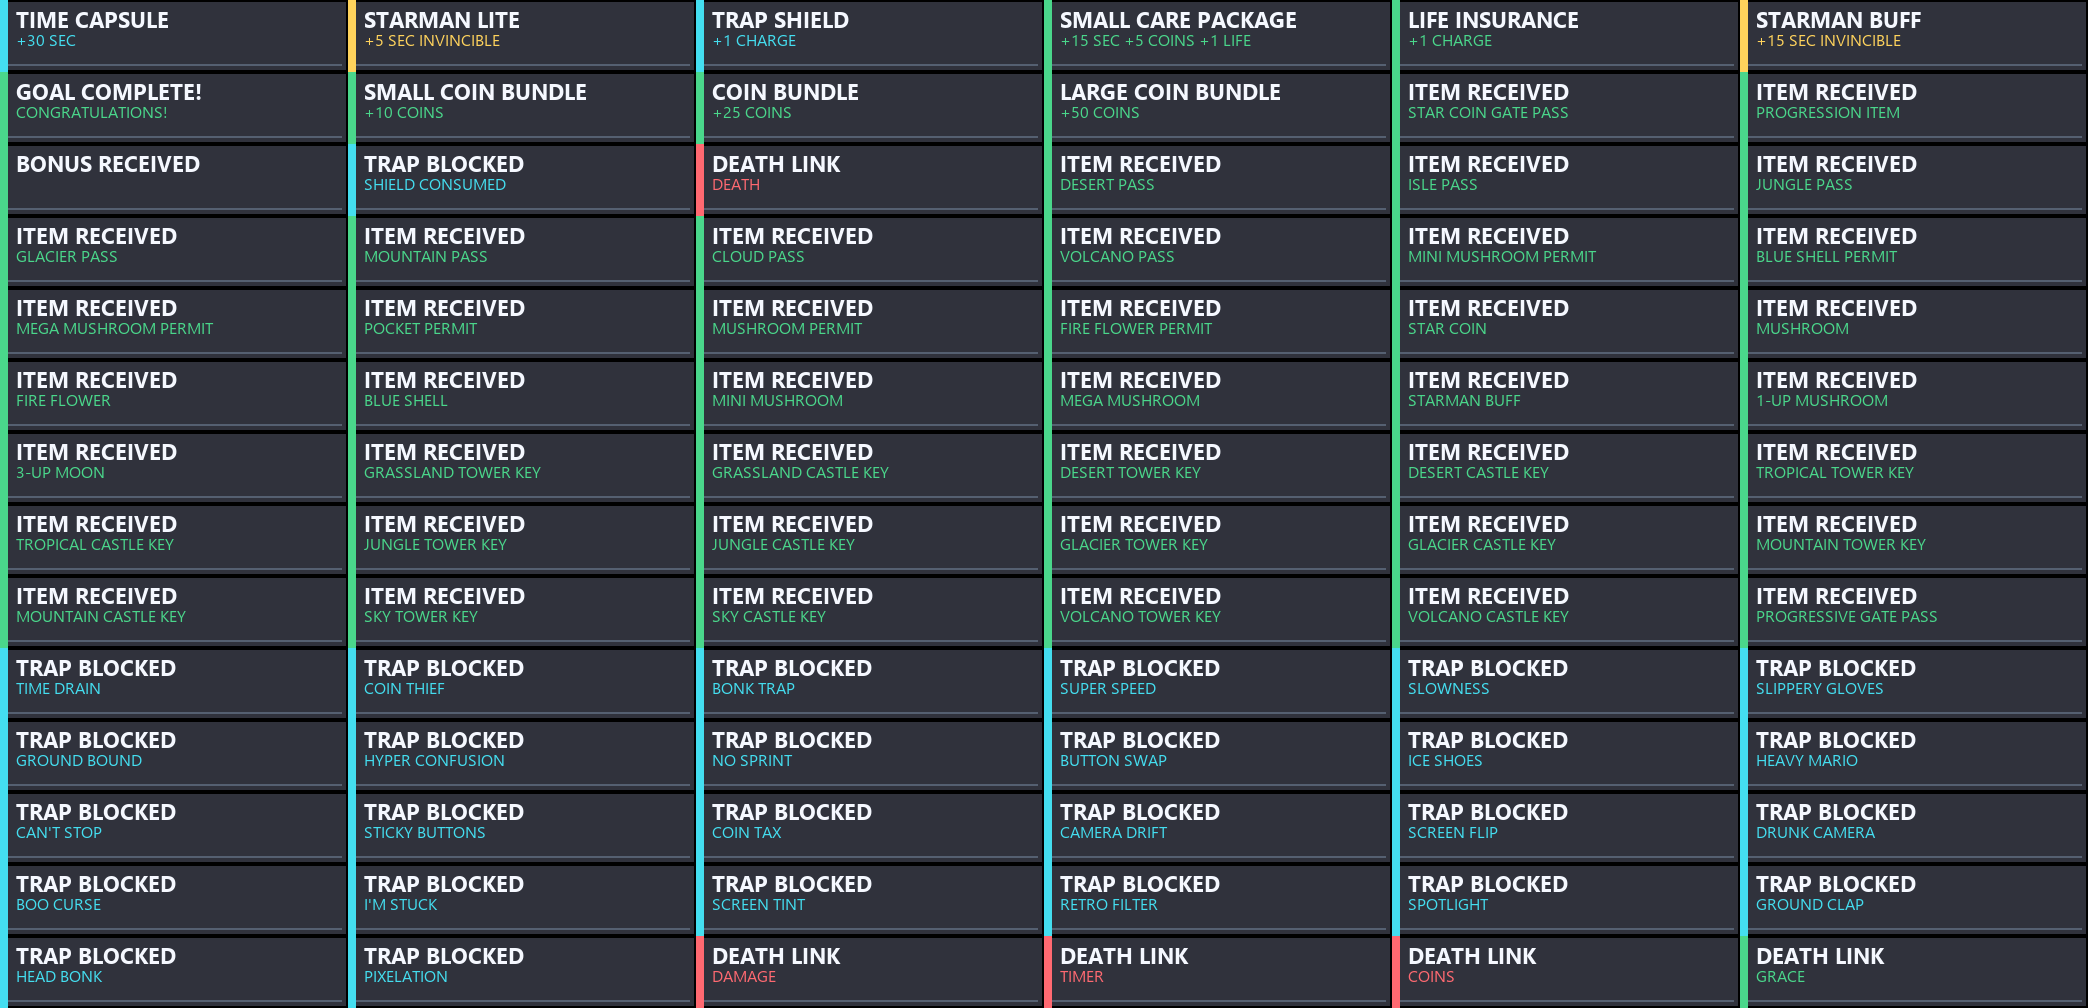
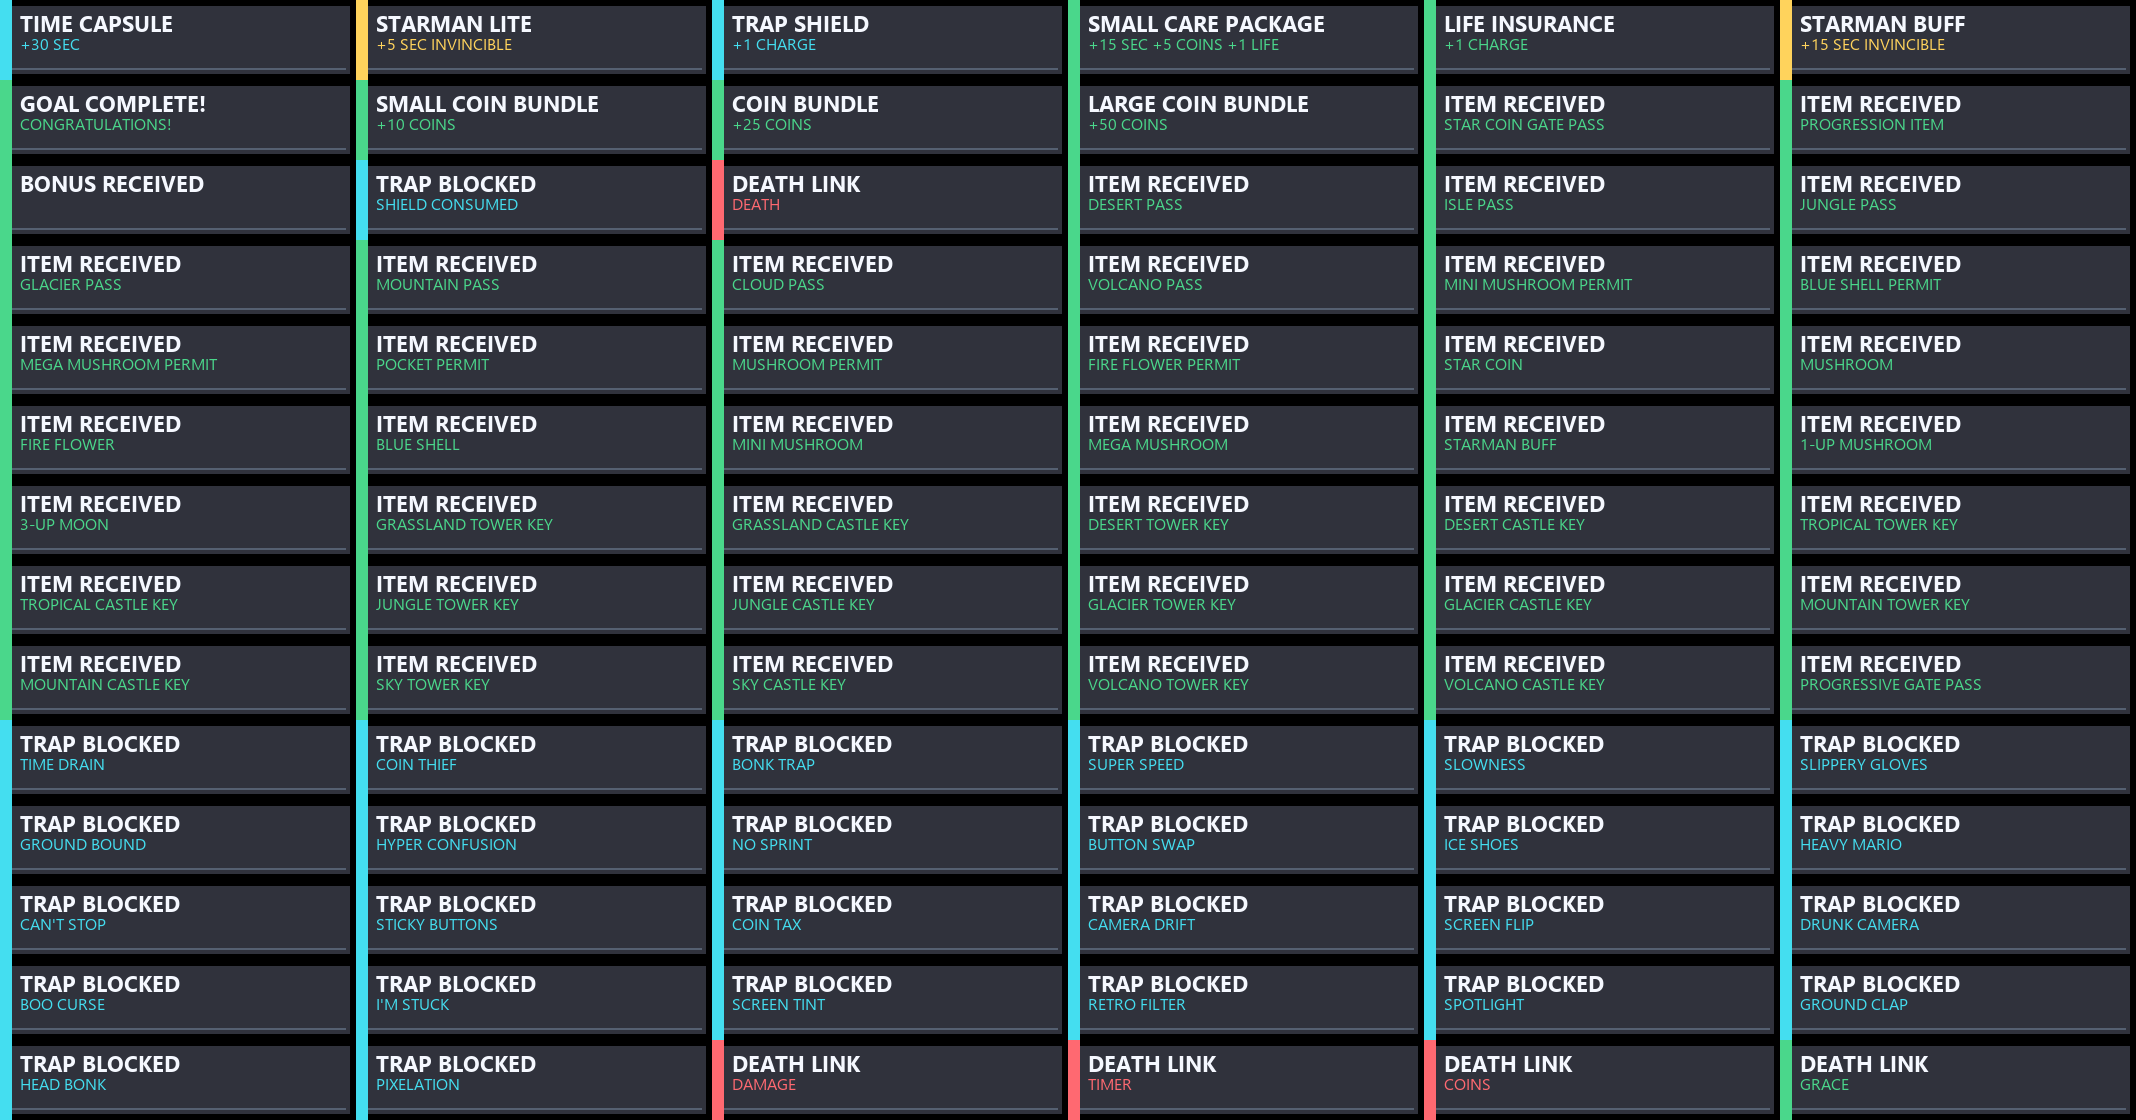
NSMBDS: Optimize notification and trap status HUD rendering

Changed region(s): [[0.0, 0.0, 1.0, 1.0]]

diff --git a/worlds/nsmbds/tools/build_notification_popup_atlas.py b/worlds/nsmbds/tools/build_notification_popup_atlas.py
@@ -1,4 +1,4 @@
-"""Build cached notification cards for BizHawk's in-game popup.
+"""Build cached notification and Trap status cards for BizHawk.
 
 The existing Lua text tables provide the variable item, trap, and DeathLink
 labels. Pillow is only needed while rebuilding assets, never at game runtime.
@@ -18,11 +18,14 @@ RUNTIME = ROOT / "lua_runtime" / "nsmbds"
 ASSETS = RUNTIME / "assets"
 HUD_SOURCE = RUNTIME / "hud.lua"
 COLUMNS = 6
+GUTTER = 2
 COLORS = {
     "cyan": (68, 222, 240, 255),
     "green": (74, 215, 139, 255),
     "yellow": (255, 211, 92, 255),
     "red": (255, 105, 113, 255),
+    "orange": (255, 166, 89, 255),
+    "purple": (179, 147, 255, 255),
 }
 BLACK = (0, 0, 0, 255)
 WHITE = (245, 248, 255, 255)
@@ -68,6 +71,13 @@ def descriptions(source: str) -> list[tuple[str, str, str]]:
     return list(dict.fromkeys(cards))
 
 
+def trap_descriptions(source: str) -> list[tuple[str, str]]:
+    section = source.split("function M.draw_trap_status_hud()", 1)[1]
+    cards = [("TRAP ACTIVE", "red")]
+    cards.extend(re.findall(r'title, color = "([^"]+)", "([^"]+)"', section))
+    return list(dict.fromkeys(cards))
+
+
 @lru_cache(maxsize=None)
 def font(size: int, bold: bool) -> ImageFont.FreeTypeFont:
     # Rendered glyphs are bundled as PNGs; no font is needed at game runtime.
@@ -92,6 +102,33 @@ def draw_fitting_text(draw: ImageDraw.ImageDraw, xy: tuple[int, int],
               text, font=font(pixel_size, bold), fill=color)
 
 
+def add_gutter(card: Image.Image, gutter: int) -> Image.Image:
+    width, height = card.size
+    padded = Image.new("RGBA", (width + 2 * gutter, height + 2 * gutter))
+    padded.paste(card, (gutter, gutter))
+    padded.paste(card.crop((0, 0, width, 1)).resize((width, gutter)),
+                 (gutter, 0))
+    padded.paste(card.crop((0, height - 1, width, height)).resize((width, gutter)),
+                 (gutter, gutter + height))
+    padded.paste(card.crop((0, 0, 1, height)).resize((gutter, height)),
+                 (0, gutter))
+    padded.paste(card.crop((width - 1, 0, width, height)).resize((gutter, height)),
+                 (gutter + width, gutter))
+    corner_draw = ImageDraw.Draw(padded)
+    for corner_x, corner_y, source_x, source_y in (
+        (0, 0, 0, 0),
+        (gutter + width, 0, width - 1, 0),
+        (0, gutter + height, 0, height - 1),
+        (gutter + width, gutter + height, width - 1, height - 1),
+    ):
+        corner_draw.rectangle(
+            (corner_x, corner_y, corner_x + gutter - 1,
+             corner_y + gutter - 1),
+            fill=card.getpixel((source_x, source_y)),
+        )
+    return padded
+
+
 def build_layout(cards: list[tuple[str, str, str]], name: str,
                  scale: float, title_size: int, subtitle_size: int,
                  output_scale: int = 1) -> None:
@@ -99,8 +136,11 @@ def build_layout(cards: list[tuple[str, str, str]], name: str,
     native_height = math.floor(30 * scale + 0.5)
     width = native_width * output_scale
     height = native_height * output_scale
+    gutter = GUTTER * output_scale
+    cell_width = width + 2 * gutter
+    cell_height = height + 2 * gutter
     rows = math.ceil(len(cards) / COLUMNS)
-    atlas = Image.new("RGBA", (COLUMNS * width, rows * height))
+    atlas = Image.new("RGBA", (COLUMNS * cell_width, rows * cell_height))
     accent_width = max(3, math.floor(3 * scale + 0.5))
     text_x = math.floor(7 * scale)
     # Horizontal keeps the normal title size, so it needs the same row spacing.
@@ -110,8 +150,8 @@ def build_layout(cards: list[tuple[str, str, str]], name: str,
     bar_y = native_height - 1 - math.floor(3 * scale)
 
     for index, (title, subtitle, color_name) in enumerate(cards):
-        x = index % COLUMNS * width
-        y = index // COLUMNS * height
+        x = index % COLUMNS * cell_width
+        y = index // COLUMNS * cell_height
         color = COLORS[color_name]
         card = Image.new("RGBA", (width, height))
         card_draw = ImageDraw.Draw(card)
@@ -138,19 +178,75 @@ def build_layout(cards: list[tuple[str, str, str]], name: str,
         card_draw.rectangle((bar_x1 * output_scale, bar_y * output_scale,
                              (bar_x2 + 1) * output_scale - 1,
                              (bar_y + 1) * output_scale - 1), fill=GRAY)
-        atlas.alpha_composite(card, (x, y))
+        # Extrude edge pixels into each gutter. Image-region filtering can then
+        # sample past a card edge without picking up a neighboring popup.
+        atlas.alpha_composite(add_gutter(card, gutter), (x, y))
 
     suffix = f"_{output_scale}x" if output_scale > 1 else ""
     atlas.save(ASSETS / f"notification_popup_{name}{suffix}.png", optimize=True)
 
 
+def build_trap_layout(cards: list[tuple[str, str]], name: str,
+                      scale: float, output_scale: int) -> None:
+    native_width = math.floor(93 * scale + 0.5)
+    native_height = math.floor(18 * scale + 0.5)
+    width = native_width * output_scale
+    height = native_height * output_scale
+    gutter = GUTTER * output_scale
+    cell_width = width + 2 * gutter
+    cell_height = height + 2 * gutter
+    rows = math.ceil(len(cards) / COLUMNS)
+    atlas = Image.new("RGBA", (COLUMNS * cell_width, rows * cell_height))
+    accent_width = max(3, math.floor(3 * scale + 0.5))
+    text_x = math.floor(7 * scale)
+    title_size = 9 if name == "hybrid" else 8
+    bar_x1 = math.floor(4 * scale)
+    bar_x2 = native_width - 1 - math.floor(3 * scale)
+    bar_y = native_height - 1 - math.floor(3 * scale)
+
+    for index, (title, color_name) in enumerate(cards):
+        color = COLORS[color_name]
+        card = Image.new("RGBA", (width, height))
+        draw = ImageDraw.Draw(card)
+        draw.rectangle((0, 0, width - 1, height - 1), fill=BACKGROUND)
+        draw.rectangle((0, 0, width - 1, output_scale - 1), fill=BLACK)
+        draw.rectangle((0, height - output_scale, width - 1, height - 1), fill=BLACK)
+        draw.rectangle((0, 0, output_scale - 1, height - 1), fill=BLACK)
+        draw.rectangle((width - output_scale, 0, width - 1, height - 1), fill=BLACK)
+        draw.rectangle((0, 0, accent_width * output_scale - 1, height - 1),
+                       fill=color)
+        raster_scale = max(2, output_scale)
+        text_layer = Image.new("RGBA", (native_width * raster_scale,
+                                        native_height * raster_scale))
+        draw_fitting_text(ImageDraw.Draw(text_layer),
+                          (text_x, math.floor(2 * scale)), title, WHITE,
+                          title_size, native_width - text_x - 3,
+                          raster_scale, bold=True)
+        if raster_scale != output_scale:
+            text_layer = text_layer.resize((width, height), Image.Resampling.BOX)
+        card.alpha_composite(text_layer)
+        draw.rectangle((bar_x1 * output_scale, bar_y * output_scale,
+                        (bar_x2 + 1) * output_scale - 1,
+                        (bar_y + 1) * output_scale - 1), fill=GRAY)
+        atlas.alpha_composite(add_gutter(card, gutter),
+                              (index % COLUMNS * cell_width,
+                               index // COLUMNS * cell_height))
+
+    suffix = f"_{output_scale}x" if output_scale > 1 else ""
+    atlas.save(ASSETS / f"trap_status_{name}{suffix}.png", optimize=True)
+
+
 def main() -> None:
-    cards = descriptions(HUD_SOURCE.read_text(encoding="utf-8"))
+    source = HUD_SOURCE.read_text(encoding="utf-8")
+    cards = descriptions(source)
+    trap_cards = trap_descriptions(source)
     ASSETS.mkdir(parents=True, exist_ok=True)
     for output_scale in (1, 2, 3):
         build_layout(cards, "normal", 1, 10, 7, output_scale)
         build_layout(cards, "horizontal", 0.85, 10, 6, output_scale)
         build_layout(cards, "hybrid", 1.2, 11, 8, output_scale)
+        build_trap_layout(trap_cards, "normal", 1, output_scale)
+        build_trap_layout(trap_cards, "hybrid", 1.25, output_scale)
     index = {"\t".join(card): number for number, card in enumerate(cards)}
     (RUNTIME / "notification_popup_sprites.lua").write_text(
         "-- Generated by tools/build_notification_popup_atlas.py.\nreturn {\n"
@@ -159,7 +255,15 @@ def main() -> None:
         + "}\n",
         encoding="utf-8",
     )
-    print(f"Built {len(cards)} notification cards in three layouts")
+    trap_index = {"\t".join(card): number for number, card in enumerate(trap_cards)}
+    (RUNTIME / "trap_status_sprites.lua").write_text(
+        "-- Generated by tools/build_notification_popup_atlas.py.\nreturn {\n"
+        + "".join(f"    [{json.dumps(key)}] = {value},\n"
+                  for key, value in trap_index.items())
+        + "}\n",
+        encoding="utf-8",
+    )
+    print(f"Built {len(cards)} notification and {len(trap_cards)} Trap status cards")
 
 
 if __name__ == "__main__":

diff --git a/worlds/nsmbds/test/test_access.py b/worlds/nsmbds/test/test_access.py
@@ -394,37 +394,34 @@ class TestIndividualStarCoinGateAccess(NSMBDSTestBase):
         ))
 
     def test_named_permits_respect_their_cumulative_tiers(self) -> None:
-        gates_by_tier = {
-            tier: next(
-                gate for gate in STAR_COIN_GATES
-                if self.world.individual_gate_tiers[gate.permit_item_name] == tier
-            )
-            for tier in (1, 2, 3)
-        }
+        # Use direct gates so another physical sign cannot raise the effective
+        # coin requirement above the gate's own randomized tier.
+        gates_by_target = {gate.target_stage_name: gate for gate in STAR_COIN_GATES}
+        gates = sorted(
+            (
+                gates_by_target["World 1 Green Toad House 1"],
+                gates_by_target["World 2 Red Toad House 1"],
+                gates_by_target["World 3-A"],
+            ),
+            key=lambda gate: self.world.individual_gate_tiers[gate.permit_item_name],
+        )
         self.collect_by_name([
             "Desert Pass", "Isle Pass", "Jungle Pass", "Glacier Pass",
             "Mountain Pass", "Cloud Pass", "Volcano Pass",
-            *(gate.permit_item_name for gate in gates_by_tier.values()),
         ])
 
-        entrances = {
-            tier: f"{gate.source_region} -> {gate.region_name}"
-            for tier, gate in gates_by_tier.items()
-        }
-        self.collect_n_by_name("Star Coin", 5)
-        self.assertTrue(self.can_reach_entrance(entrances[1]))
-        self.assertFalse(self.can_reach_entrance(entrances[2]))
-        self.assertFalse(self.can_reach_entrance(entrances[3]))
-
-        self.collect_n_by_name("Star Coin", 10)
-        self.assertTrue(self.can_reach_entrance(entrances[1]))
-        self.assertTrue(self.can_reach_entrance(entrances[2]))
-        self.assertFalse(self.can_reach_entrance(entrances[3]))
-
-        self.collect_n_by_name("Star Coin", 15)
-        self.assertTrue(self.can_reach_entrance(entrances[1]))
-        self.assertTrue(self.can_reach_entrance(entrances[2]))
-        self.assertTrue(self.can_reach_entrance(entrances[3]))
+        for gate in gates:
+            entrance = f"{gate.source_region} -> {gate.region_name}"
+            required_coins = (
+                self.world.individual_gate_tiers[gate.permit_item_name]
+                * gate.star_coin_cost
+            )
+            self.collect_n_by_name("Star Coin", required_coins - 1)
+            self.assertFalse(self.can_reach_entrance(entrance))
+            self.collect_by_name(gate.permit_item_name)
+            self.assertFalse(self.can_reach_entrance(entrance))
+            self.collect_n_by_name("Star Coin", required_coins)
+            self.assertTrue(self.can_reach_entrance(entrance))
 
     def test_world_4_orange_toad_house_requires_both_physical_signs(self) -> None:
         gates = {gate.target_stage_name: gate for gate in STAR_COIN_GATES}
